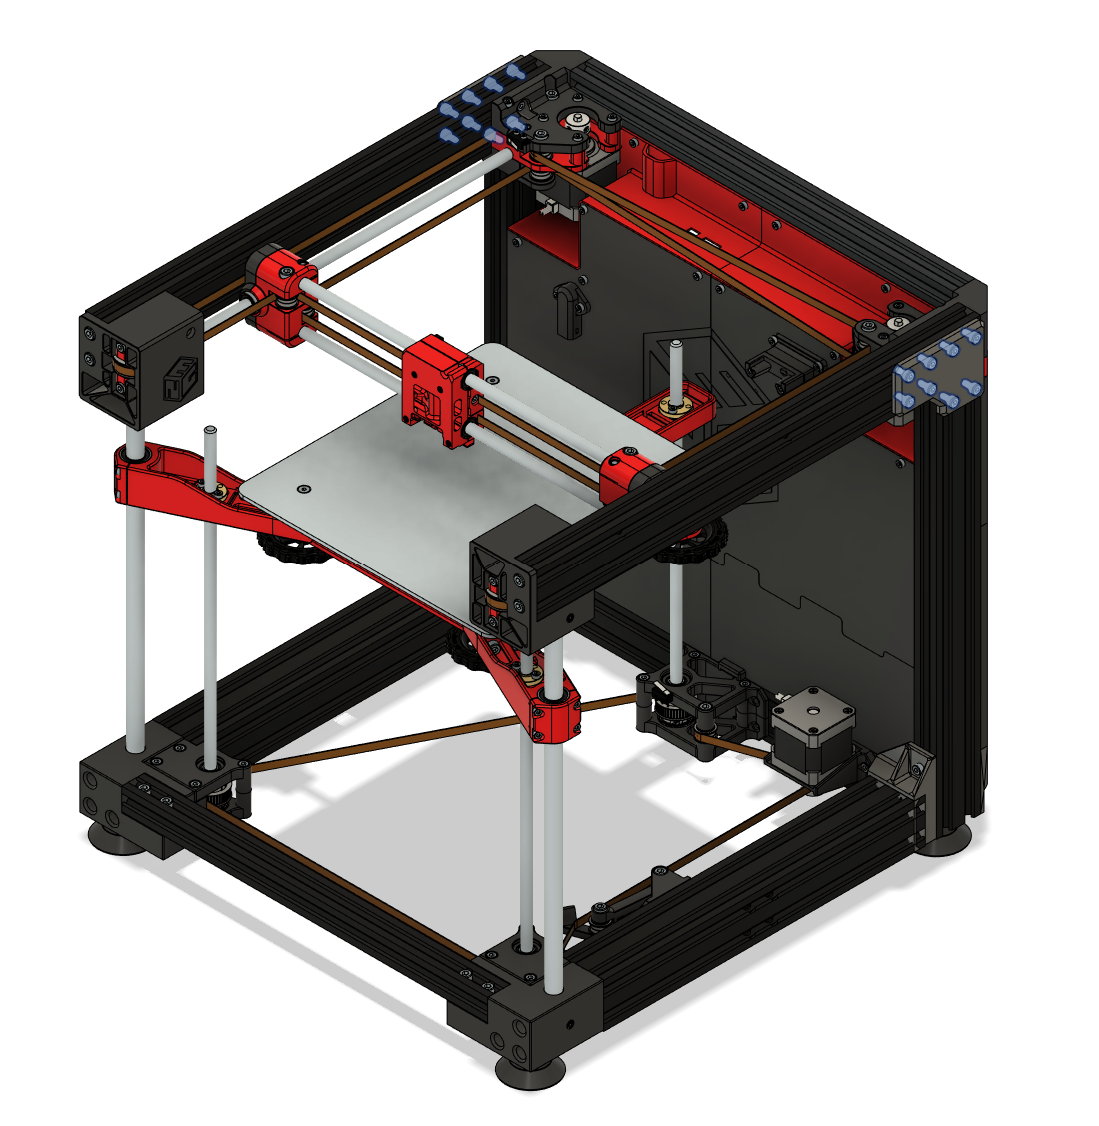
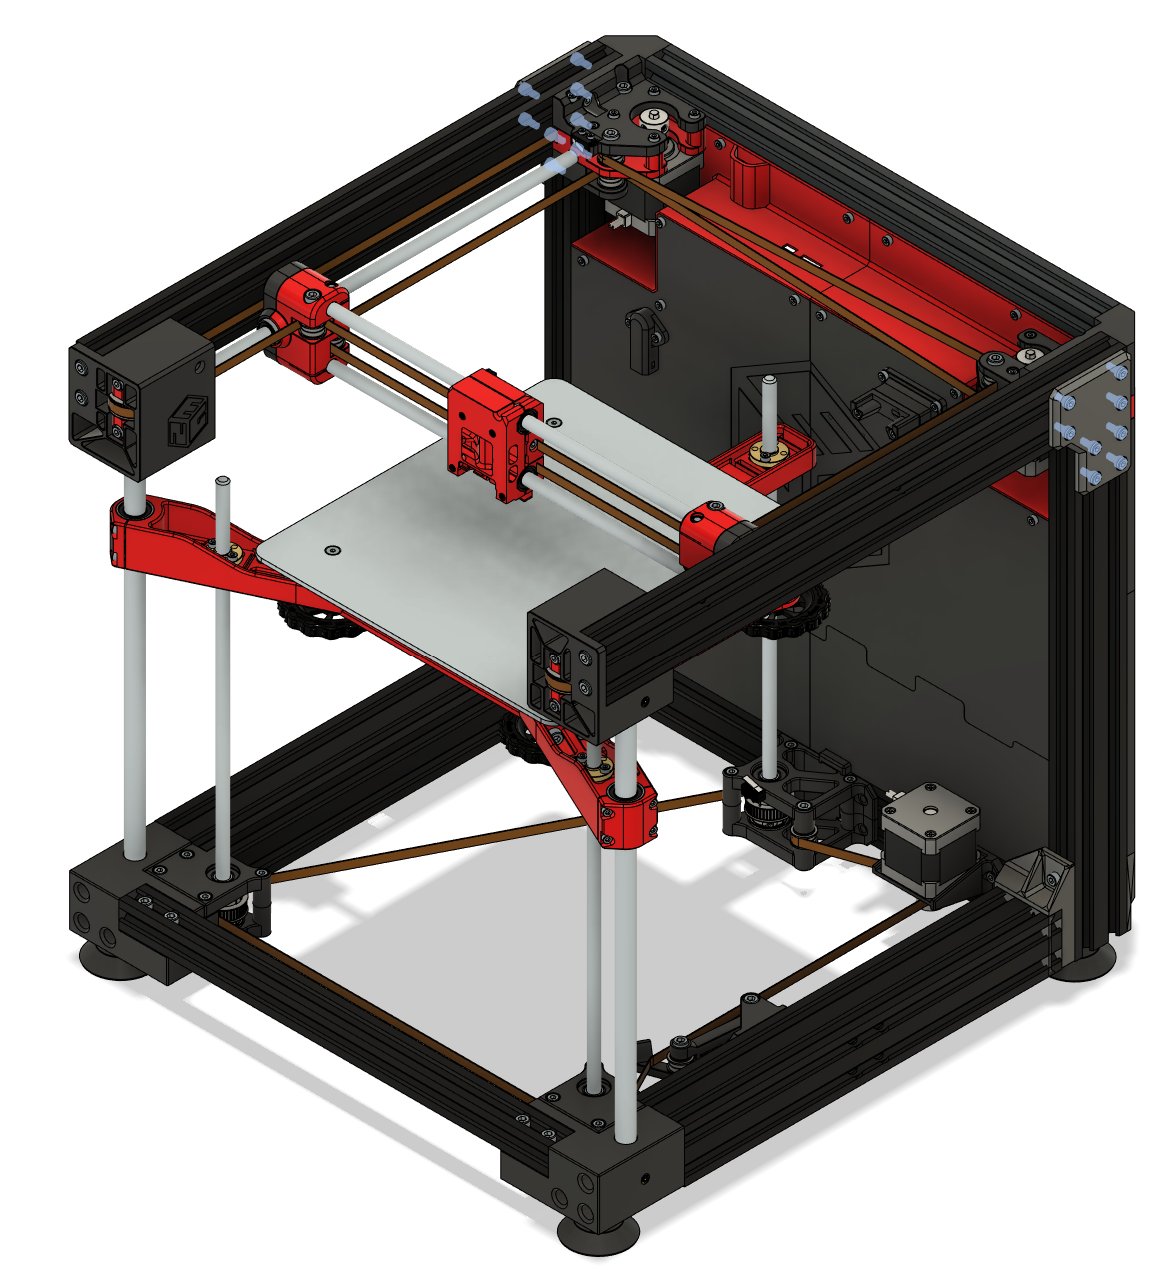
Add missing aluminium extrusion mods

diff --git a/2.electronics/electronics.md b/2.electronics/electronics.md
@@ -79,19 +79,19 @@ Rear part of the printer
 | [G6](#g6---attach-side-frame) | M4 T-nut | 8 | Hardware | Connect sides to back plate
 | [G9.2](#g92---screw-side-frame-rims-to-back-plate) | M4 T-nut | 6 | Hardware | Connect frame rim to sides
 
-#### Ender 3 Pro Specific parts
+#### E3.P - Specific parts for Ender 3 Pro
 
 | Step | Part | Count | Type | Note |
 | ---- | ---- | ----- | ---- | ---- |
 | [P5](#p5---eng-din1), [G3](#g3---add-3-eng-din1-and-the-electronics-mounts) | ENG-DIN1 | 2 | Printed
-| [P7](#p7---ender-3-pro-only-eng-psue3p), [G3](#g3---add-3-eng-din1-and-the-electronics-mounts) | ENG-PSUE3P | 1 | Printed
+| [P7:E3.P](#p7e3p---eng-psue3p), [G3](#g3---add-3-eng-din1-and-the-electronics-mounts) | ENG-PSUE3P | 1 | Printed
 | [G3](#g3---add-3-eng-din1-and-the-electronics-mounts) | M3x8 | 4 | Hardware | Connect ENG-PSUE3P to ENG-DIN1
 
-#### OG Ender 3 Specific parts
+#### E3.O - Specific parts for OG Ender 3
 
 | Step | Part | Count | Type | Note |
 | ---- | ---- | ----- | ---- | ---- |
-| [P8](#p8---og-ender-3-only-eng-psue3), [G3](#g3---add-3-eng-din1-and-the-electronics-mounts) | ENG-PSUE3 | 2 | Printed
+| [P8:E3.O](#p8e3o---eng-psue3), [G3](#g3---add-3-eng-din1-and-the-electronics-mounts) | ENG-PSUE3 | 2 | Printed
 | [P5](#p5---eng-din1), [G3](#g3---add-3-eng-din1-and-the-electronics-mounts) | ENG-DIN1 | 0/2 | Printed | It may be required to hold PSUE3
 | [G3](#g3---add-3-eng-din1-and-the-electronics-mounts) | M3x8 | 0/4 | Hardware | It may be required to hold PSUE3
 
@@ -101,53 +101,83 @@ This section just lists the printed parts that do not require any additional pre
 
 #### P1 - ENG-EPB1
 
+Electronics enclosure - panel B1
+
 <img src="eng_epb1.png" alt="ENG-EPB1" height="200"/>
 
 #### P2 - ENG-EPB2
+
+Electronics enclosure - panel B2
 
 <img src="eng_epb2.png" alt="ENG-EPB2" height="200"/>
 
 #### P3 - ENG-EPA1
 
+Electronics enclosure - panel A1
+
 <img src="eng_epa1.png" alt="ENG-EPA1" height="200"/>
 
 #### P4 - ENG-EPA2
+
+Electronics enclosure - panel A2
 
 <img src="eng_epa2.png" alt="ENG-EPA2" height="200"/>
 
 #### P5 - ENG-DIN1
 
+DIN rail mount
+
 <img src="eng_din1.png" alt="ENG-DIN1" height="200"/>
 
 #### P6 - ENG-MBE3
 
+MOTHERBOARD
+
 <img src="eng_mbe3.png" alt="ENG-MBE3" height="200"/>
 
-#### P7 - (Ender 3 Pro only) ENG-PSUE3P
+#### P7:E3.P - ENG-PSUE3P
+
+**Note: This part is only valid for Ender 3 Pro**
+
+PSU MOUNT
 
 <img src="eng_psue3p.png" alt="ENG-PSUE3P" height="200"/>
 
-#### P8 - (OG Ender 3 only) ENG-PSUE3
+#### P8:E3.O - ENG-PSUE3
+
+**Note: This part is only valid for OG Ender 3**
+
+50mm PSU mount
 
 <img src="eng_psue3.png" alt="ENG-PSUE3" height="200"/>
 
 #### P9 - ENG-EST
 
+Electronics enclosure – stepper cable cover
+
 <img src="eng_est.png" alt="ENG-EST" height="100"/>
 
 #### P10 - ENG-EFJ
+
+Electronics enclosure - frame joint
 
 <img src="eng_efj.png" alt="ENG-EFJ" height="200"/>
 
 #### P11 - ENG-KPM
 
+Klicky probe – dock mount
+
 <img src="eng_kpm.png" alt="ENG-KPM" height="200"/>
 
 #### P12 - ENG-KPD
 
+Klicky probe - dock original
+
 <img src="eng_kpd.png" alt="ENG-KPD" height="200"/>
 
 #### P13 - ENG-EBC
+
+Electronics enclosure – bed cable
 
 <img src="eng_ebc.png" alt="ENG-EBC" height="200"/>
 
@@ -157,6 +187,8 @@ This section lists printed parts that require an initial preparation, such as ad
 
 #### H1 - ENG-ESA
 
+Electronics enclosure - stepper cover A
+
 <img src="eng_esa.png" alt="ENG-ESA" height="200"/>
 
 This part has 4 standard M3 heat inserts and 2 short M3 heat inserts. The standard ones are visible in the figure above. The short ones are on the side:
@@ -165,13 +197,18 @@ This part has 4 standard M3 heat inserts and 2 short M3 heat inserts. The standa
 
 #### H2 - ENG-ESB
 
+Electronics enclosure - stepper cover B
+
 <img src="eng_esb.png" alt="ENG-ESB" height="200"/>
 
 This part has 4 standard M3 heat inserts that are visible in the figure above.
 
 #### H3 - ENG-EMA and ENG-EMB
 
-ENG-EMA and ENG-EMB are mirrored parts.
+ENG-EMA and ENG-EMB are mirrored parts:
+
+- ENG-EMA: Electronics enclosure - frame mount part A
+- ENG-EMB: Electronics enclosure - frame mount part B
 
 <img src="eng_ema.png" alt="ENG-EMA" height="100"/>
 <img src="eng_emb.png" alt="ENG-EMB" height="100"/>
@@ -182,7 +219,10 @@ Each part has 5 standard M3 heat inserts.
 
 #### H4 - ENG-EFBA and ENG-EFBB
 
-ENG-EFBA and ENG-EFBB are mirrored parts.
+ENG-EFBA and ENG-EFBB are mirrored parts:
+
+- ENG-EFBA: Electronics enclosure - frame rim bottom part A
+- ENG-EFBB: Electronics enclosure - frame rim bottom part B
 
 <img src="eng_efba.png" alt="ENG-EFBA" height="100"/>
 <img src="eng_efbb.png" alt="ENG-EFBB" height="100"/>
@@ -191,7 +231,10 @@ Each part has 2 standerd M3 heat inserts, as shown above.
 
 #### H5 - ENG-EFLA and ENG-EFRB
 
-ENG-EFLA and ENG-EFRB are mirrored parts.
+ENG-EFLA and ENG-EFRB are mirrored parts:
+
+- ENG-EFLA: Electronics enclosure - frame rim left part A
+- ENG-EFRB: Electronics enclosure - frame rim right part B
 
 <img src="eng_efla.png" alt="ENG-EFLA" height="400"/>
 <img src="eng_efrb.png" alt="ENG-EFRB" height="400"/>
@@ -200,7 +243,10 @@ Each part has 2 standerd M3 heat inserts, as shown above.
 
 #### H6 - ENG-EFLB and ENG-EFRA
 
-ENG-EFLB and ENG-EFRA are mirrored parts.
+ENG-EFLB and ENG-EFRA are mirrored parts:
+
+- ENG-EFLB: Electronics enclosure - frame rim left part B
+- ENG-EFRA: Electronics enclosure - frame rim right part A
 
 <img src="eng_eflb.png" alt="ENG-EFLB" height="400"/>
 <img src="eng_efra.png" alt="ENG-EFRA" height="400"/>

diff --git a/1.bottom/bottom.md b/1.bottom/bottom.md
@@ -109,7 +109,30 @@ And alternatives for the type of the source printer:
 | ---- | ---- | ----- | ---- | ---- |
 | [H1:RF.B](#h1rfb---eng-blr_2040_350-and-eng-brr_2040_350), [G1](#g1---get-corners) | ENG-BLR_2040_350 | 1 | Printed |
 | [H1:RF.B](#h1rfb---eng-blr_2040_350-and-eng-brr_2040_350), [G1](#g1---get-corners) | ENG-BRR_2040_350| 1 | Printed |
+| [G5](#g5---install-feet) | M4 T-nut | 2 | Hardware | Connect rear feet to base frames
 | [G17](#g17rfb---350mm-2040-aluminium-extrusion-version-of-rear-frames) | 350mm 2040 aluminium extrusion | 2 | Hardware | Bought separately - it is not part of the Ender 3
+| [G17](#g17rfb---350mm-2040-aluminium-extrusion-version-of-rear-frames) | M4x8 | 8 | Hardware | Connect 2040 to Bottom
+| [G17](#g17rfb---350mm-2040-aluminium-extrusion-version-of-rear-frames) | M4 T-nut | 8 | Hardware | Connect 2040 to Bottom
+
+#### RF.C - Specific parts for the 300mm 2040 aluminium extrusion version of rear frames
+
+| Step | Part | Count | Type | Note |
+| ---- | ---- | ----- | ---- | ---- |
+| [H1:RF.C](#h1rfc---eng-blr_2040_300-and-eng-brr_2040_300), [G1](#g1---get-corners) | ENG-BLR_2040_300 | 1 | Printed |
+| [H1:RF.C](#h1rfc---eng-blr_2040_300-and-eng-brr_2040_300), [G1](#g1---get-corners) | ENG-BRR_2040_300| 1 | Printed |
+| [G17](#g17rfb---350mm-2040-aluminium-extrusion-version-of-rear-frames) | 300mm 2040 aluminium extrusion | 2 | Hardware | Bought separately - it is not part of the Ender 3
+| [G17](#g17rfb---350mm-2040-aluminium-extrusion-version-of-rear-frames) | M5x12 | 4 | Hardware | Connect 2040 to Bottom
+
+
+#### RF.D - Specific parts for the 310mm 2040 aluminium extrusion version of rear frames
+
+| Step | Part | Count | Type | Note |
+| ---- | ---- | ----- | ---- | ---- |
+| [H1:RF.D](#h1rfd---eng-blr_2040_310-and-eng-brr_2040_310), [G1](#g1---get-corners) | ENG-BLR_2040_310 | 1 | Printed |
+| [H1:RF.D](#h1rfd---eng-blr_2040_310-and-eng-brr_2040_310), [G1](#g1---get-corners) | ENG-BRR_2040_310 | 1 | Printed |
+| [G17](#g17rfb---350mm-2040-aluminium-extrusion-version-of-rear-frames) | 310mm 2040 aluminium extrusion | 2 | Hardware | Bought separately - it is not part of the Ender 3
+| [G17](#g17rfb---350mm-2040-aluminium-extrusion-version-of-rear-frames) | M5x12 | 4 | Hardware | Connect 2040 to Bottom
+
 
 #### Z.S - Specific parts for short Z belt (1040mm)
 
@@ -261,6 +284,34 @@ ENG-BLR_2040_350 and ENG-BRR_2040_350 are mirrored parts:
 
 <img src="eng_blr_2040_350.png" alt="ENG-BLR_2040_350" height="200"/>
 <img src="eng_brr_2040_350.png" alt="ENG-BRR_2040_350" height="200"/>
+
+Each part has 2 built-in supports that you must cut off before installing.
+
+#### H1.RF.C - ENG-BLR_2040_300 and ENG-BRR_2040_300
+
+**Note: these parts are only valid for the 300mm 2040 aluminium extrusion version of rear frames**
+
+ENG-BLR_2040_300 and ENG-BRR_2040_300 are mirrored parts:
+
+- ENG-BLR_2040_300: Bottom frame left rear corner – 2040 extrusion
+- ENG-BRR_2040_300: Bottom frame right rear corner – 2040 extrusion
+
+<img src="eng_blr_2040_300.png" alt="ENG-BLR_2040_300" height="200"/>
+<img src="eng_brr_2040_300.png" alt="ENG-BRR_2040_300" height="200"/>
+
+Each part has 2 built-in supports that you must cut off before installing.
+
+#### H1.RF.D - ENG-BLR_2040_310 and ENG-BRR_2040_310
+
+**Note: these parts are only valid for the 310mm 2040 aluminium extrusion version of rear frames**
+
+ENG-BLR_2040_310 and ENG-BRR_2040_310 are mirrored parts:
+
+- ENG-BLR_2040_310: Bottom frame left rear corner – 2040 extrusion
+- ENG-BRR_2040_310: Bottom frame right rear corner – 2040 extrusion
+
+<img src="eng_blr_2040_310.png" alt="ENG-BLR_2040_310" height="200"/>
+<img src="eng_brr_2040_310.png" alt="ENG-BRR_2040_310" height="200"/>
 
 Each part has 2 built-in supports that you must cut off before installing.
 
@@ -448,7 +499,9 @@ The positioning here is tricky. You may need to change the position later, to pr
 
 #### G5 - Install feet
 
-Use 4 M4x12 screws, 4 M4 washers, 4 rubber feet
+Use 4 M4x12 screws, 4 M4 washers, 4 rubber feet.
+
+Note: The rear feet will not fit RF.B (version with 350mm 2040 aluminium extrusion). You can try to use 2 M5x12 screws and 2 M5 washers. Or you can move it to the frame and use 2 M4 T-nuts. In the BOM, I went with the second option.
 
 <img src="step5.png" alt="Step 5" height="300"/>
 
@@ -585,3 +638,15 @@ For each side, use 4 M4x16 to attach ENG-FTL/ENG-FTR to ENG-BRL/ENG-BRR.
 For each side, use 4 M4 T-nut and 4 M4x8 to attach 2040 aluminium extrusion to ENG-BRL_2040_350/ENG-BRR_2040_350
 
 <img src="step17rfb.png" alt="Step 17:RF.B" height="300"/>
+
+#### G17:RF.C - 300mm 2040 aluminium extrusion version of rear frames
+
+For each side, use 2 M5x12 to attach 2040 aluminium extrusion to ENG-BRL_2040_300/ENG-BRR_2040_300
+
+<img src="step17rfc.png" alt="Step 17:RF.C" height="300"/>
+
+#### G17:RF.D - 310mm 2040 aluminium extrusion version of rear frames
+
+For each side, use 2 M5x12 to attach 2040 aluminium extrusion to ENG-BRL_2040_310/ENG-BRR_2040_310
+
+<img src="step17rfd.png" alt="Step 17:RF.D" height="300"/>
